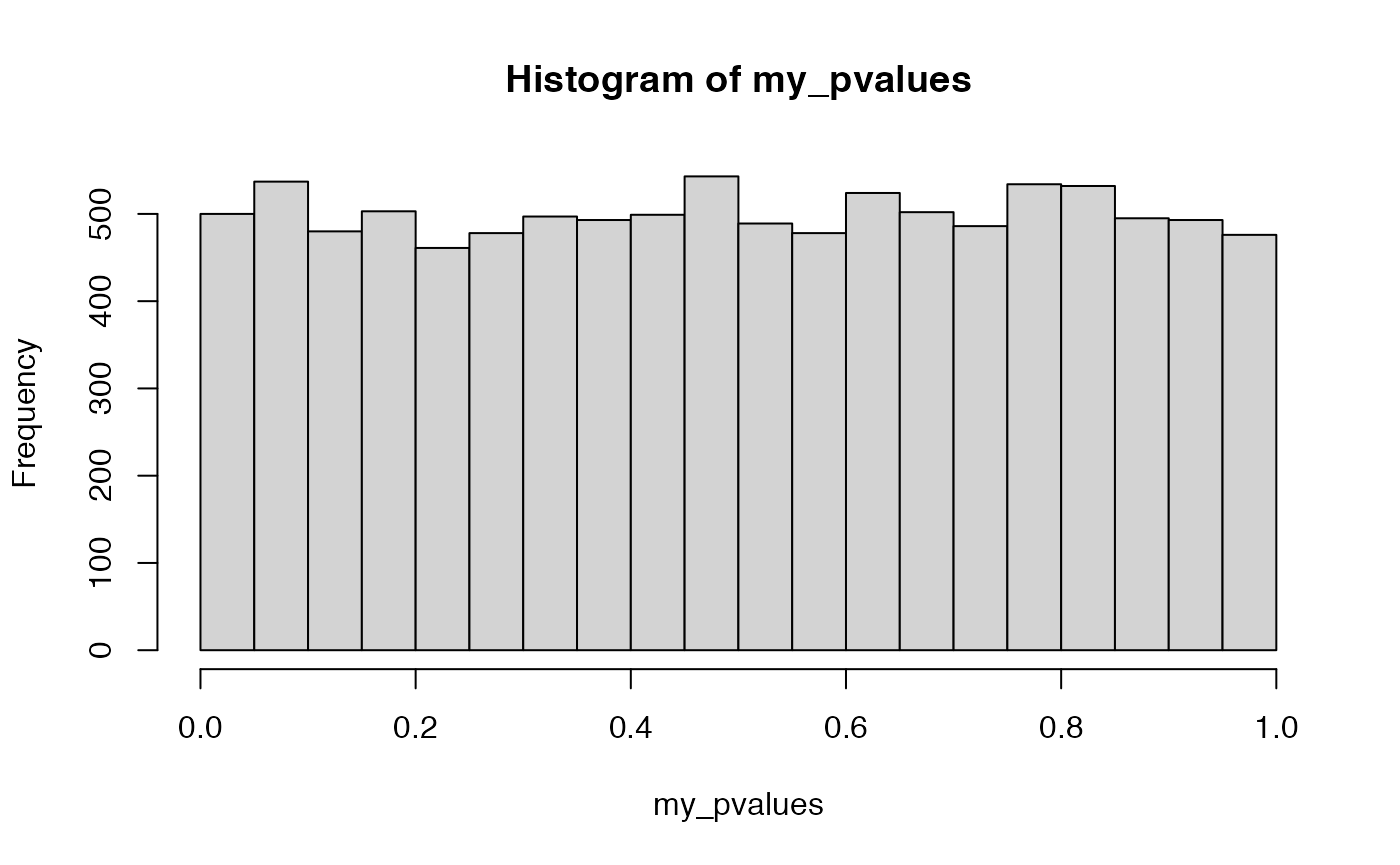
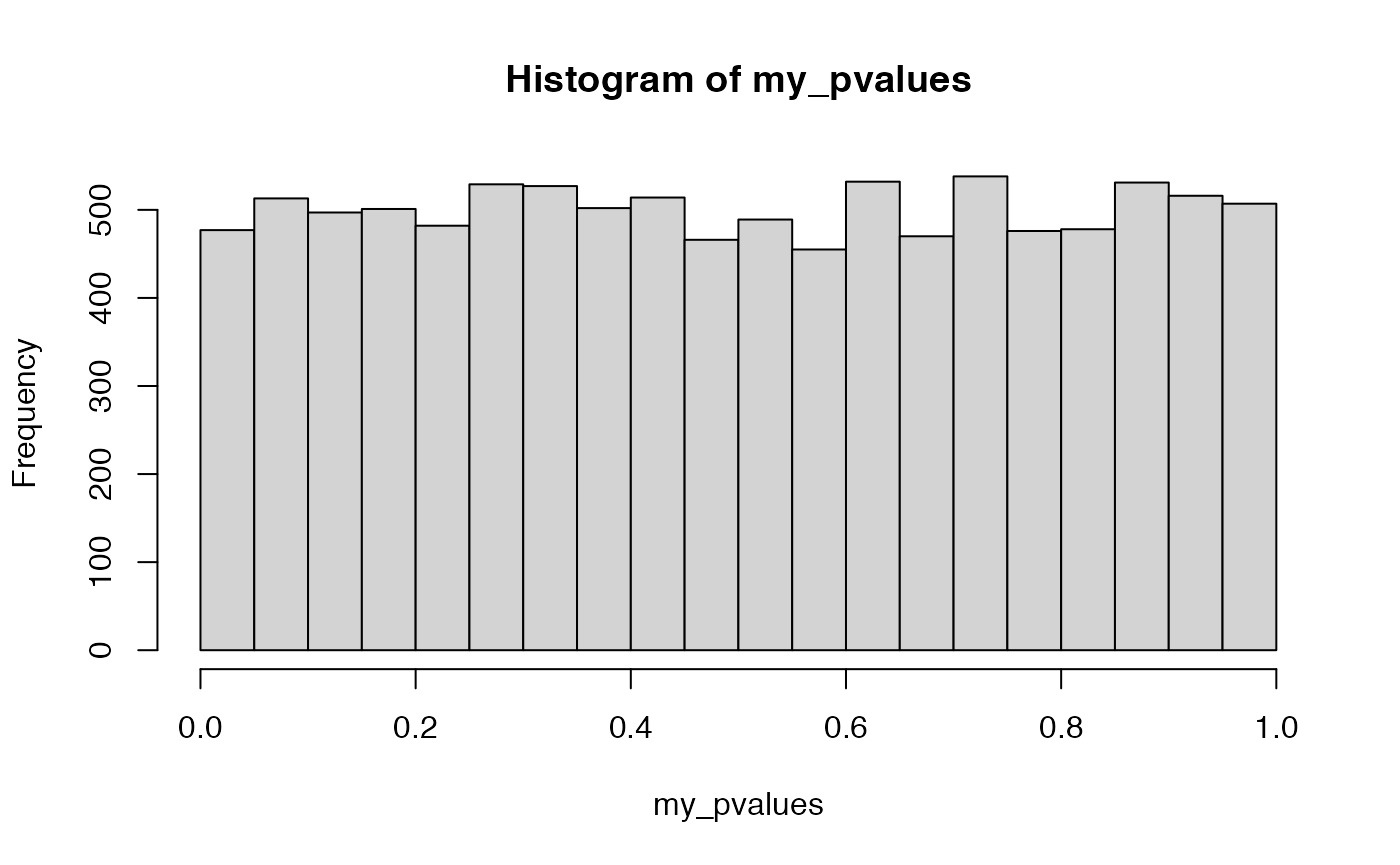
***

diff --git a/docs/articles/Lab6.html b/docs/articles/Lab6.html
@@ -120,24 +120,24 @@
 <p><img src="Lab6_files/figure-html/unnamed-chunk-1-1.png" width="700"></p>
 <div class="sourceCode" id="cb6"><pre class="downlit sourceCode r">
 <code class="sourceCode R"><span class="fu"><a href="https://rdrr.io/r/base/length.html" class="external-link">length</a></span><span class="op">(</span><span class="va">A</span><span class="op">[</span><span class="va">A</span> <span class="op">&gt;</span> <span class="fl">0</span><span class="op">]</span><span class="op">)</span><span class="op">/</span><span class="fl">10000</span></code></pre></div>
-<pre><code><span class="co">## [1] 0.6427</span></code></pre>
+<pre><code><span class="co">## [1] 0.6423</span></code></pre>
 <div class="sourceCode" id="cb8"><pre class="downlit sourceCode r">
 <code class="sourceCode R"><span class="va">B</span> <span class="op">&lt;-</span> <span class="fu"><a href="https://rdrr.io/r/base/lapply.html" class="external-link">replicate</a></span><span class="op">(</span><span class="fl">10000</span>,<span class="fu"><a href="https://rdrr.io/r/base/sum.html" class="external-link">sum</a></span><span class="op">(</span><span class="fu"><a href="https://rdrr.io/r/stats/Binomial.html" class="external-link">rbinom</a></span><span class="op">(</span><span class="fl">50</span>,<span class="fl">1</span>,<span class="fl">.05</span><span class="op">)</span><span class="op">)</span><span class="op">)</span>
 <span class="fu"><a href="https://rdrr.io/r/graphics/hist.html" class="external-link">hist</a></span><span class="op">(</span><span class="va">B</span><span class="op">)</span></code></pre></div>
 <p><img src="Lab6_files/figure-html/unnamed-chunk-1-2.png" width="700"></p>
 <div class="sourceCode" id="cb9"><pre class="downlit sourceCode r">
 <code class="sourceCode R"><span class="fu"><a href="https://rdrr.io/r/base/length.html" class="external-link">length</a></span><span class="op">(</span><span class="va">B</span><span class="op">[</span><span class="va">B</span> <span class="op">&gt;</span> <span class="fl">0</span><span class="op">]</span><span class="op">)</span><span class="op">/</span><span class="fl">10000</span></code></pre></div>
-<pre><code><span class="co">## [1] 0.9255</span></code></pre>
+<pre><code><span class="co">## [1] 0.9198</span></code></pre>
 <div class="sourceCode" id="cb11"><pre class="downlit sourceCode r">
 <code class="sourceCode R"><span class="fl">4</span><span class="op">-</span><span class="fl">3</span></code></pre></div>
 <pre><code><span class="co">## [1] 1</span></code></pre>
 <div class="sourceCode" id="cb13"><pre class="downlit sourceCode r">
 <code class="sourceCode R"><span class="fu"><a href="https://rdrr.io/r/stats/Binomial.html" class="external-link">rbinom</a></span><span class="op">(</span><span class="fl">20</span>,<span class="fl">3</span>,<span class="fl">.05</span><span class="op">)</span></code></pre></div>
-<pre><code><span class="co">##  [1] 0 0 1 0 1 0 0 0 0 0 1 0 0 0 0 0 0 0 0 0</span></code></pre>
+<pre><code><span class="co">##  [1] 0 0 0 0 0 0 0 0 0 1 0 0 0 1 0 0 0 0 0 1</span></code></pre>
 <div class="sourceCode" id="cb15"><pre class="downlit sourceCode r">
 <code class="sourceCode R"><span class="va">D</span> <span class="op">&lt;-</span> <span class="fu"><a href="https://rdrr.io/r/base/lapply.html" class="external-link">replicate</a></span><span class="op">(</span><span class="fl">10000</span>,<span class="fu"><a href="https://rdrr.io/r/base/sum.html" class="external-link">sum</a></span><span class="op">(</span><span class="fu"><a href="https://rdrr.io/r/stats/Binomial.html" class="external-link">rbinom</a></span><span class="op">(</span><span class="fl">20</span>,<span class="fl">3</span>,<span class="fl">.05</span><span class="op">)</span><span class="op">)</span><span class="op">)</span>
 <span class="fu"><a href="https://rdrr.io/r/base/length.html" class="external-link">length</a></span><span class="op">(</span><span class="va">D</span><span class="op">[</span><span class="va">D</span> <span class="op">&gt;</span> <span class="fl">0</span><span class="op">]</span><span class="op">)</span><span class="op">/</span><span class="fl">10000</span></code></pre></div>
-<pre><code><span class="co">## [1] 0.9522</span></code></pre>
+<pre><code><span class="co">## [1] 0.9552</span></code></pre>
 <div class="sourceCode" id="cb17"><pre class="downlit sourceCode r">
 <code class="sourceCode R"><span class="fu"><a href="https://rdrr.io/r/graphics/hist.html" class="external-link">hist</a></span><span class="op">(</span><span class="va">D</span><span class="op">)</span></code></pre></div>
 <p><img src="Lab6_files/figure-html/unnamed-chunk-1-3.png" width="700"></p>
@@ -223,10 +223,10 @@
 <span class="op">}</span>
 
 <span class="fu"><a href="https://rdrr.io/r/base/length.html" class="external-link">length</a></span><span class="op">(</span><span class="va">omnibus_pvalues</span><span class="op">[</span><span class="va">omnibus_pvalues</span> <span class="op">&lt;</span> <span class="fl">.05</span><span class="op">]</span><span class="op">)</span><span class="op">/</span><span class="fl">1000</span></code></pre></div>
-<pre><code><span class="co">## [1] 0.003</span></code></pre>
+<pre><code><span class="co">## [1] 0.004</span></code></pre>
 <div class="sourceCode" id="cb23"><pre class="downlit sourceCode r">
 <code class="sourceCode R"><span class="fu"><a href="https://rdrr.io/r/base/length.html" class="external-link">length</a></span><span class="op">(</span><span class="va">contrast_pvalues</span><span class="op">[</span><span class="va">contrast_pvalues</span> <span class="op">&lt;</span> <span class="fl">.05</span><span class="op">]</span><span class="op">)</span><span class="op">/</span><span class="fl">1000</span></code></pre></div>
-<pre><code><span class="co">## [1] 0.005</span></code></pre>
+<pre><code><span class="co">## [1] 0.006</span></code></pre>
   </main>
 </div>
 

diff --git a/docs/articles/Lab7.html b/docs/articles/Lab7.html
@@ -222,7 +222,7 @@
 <div class="sourceCode" id="cb12"><pre class="downlit sourceCode r">
 <code class="sourceCode R"><span class="va">sims</span> <span class="op">&lt;-</span> <span class="fu"><a href="https://rdrr.io/r/stats/Binomial.html" class="external-link">rbinom</a></span><span class="op">(</span><span class="fl">10000</span>,<span class="fl">7</span>,<span class="fl">.05</span><span class="op">)</span>
 <span class="fu"><a href="https://rdrr.io/r/base/length.html" class="external-link">length</a></span><span class="op">(</span><span class="va">sims</span> <span class="op">[</span><span class="va">sims</span> <span class="op">&gt;</span> <span class="fl">0</span> <span class="op">]</span><span class="op">)</span><span class="op">/</span><span class="fl">10000</span></code></pre></div>
-<pre><code><span class="co">## [1] 0.2968</span></code></pre>
+<pre><code><span class="co">## [1] 0.2989</span></code></pre>
 <div class="sourceCode" id="cb14"><pre class="downlit sourceCode r">
 <code class="sourceCode R"><span class="va">n</span> <span class="op">&lt;-</span> <span class="fl">12</span>
 <span class="va">factorial_data</span> <span class="op">&lt;-</span> <span class="fu"><a href="https://rdrr.io/pkg/tibble/man/tibble.html" class="external-link">tibble</a></span><span class="op">(</span>A <span class="op">=</span> <span class="fu"><a href="https://rdrr.io/r/base/factor.html" class="external-link">factor</a></span><span class="op">(</span><span class="fu"><a href="https://rdrr.io/r/base/rep.html" class="external-link">rep</a></span><span class="op">(</span><span class="fu"><a href="https://rdrr.io/r/base/c.html" class="external-link">c</a></span><span class="op">(</span><span class="st">"L1"</span>,<span class="st">"L2"</span><span class="op">)</span>, each <span class="op">=</span> <span class="va">n</span><span class="op">)</span><span class="op">)</span>,
@@ -231,17 +231,15 @@
                          DV <span class="op">=</span> <span class="fu"><a href="https://rdrr.io/r/stats/Normal.html" class="external-link">rnorm</a></span><span class="op">(</span><span class="va">n</span><span class="op">*</span><span class="fl">2</span>,<span class="fl">0</span>,<span class="fl">1</span><span class="op">)</span><span class="op">)</span>
 
 <span class="fu"><a href="https://rdrr.io/r/base/summary.html" class="external-link">summary</a></span><span class="op">(</span><span class="fu"><a href="https://rdrr.io/r/stats/aov.html" class="external-link">aov</a></span><span class="op">(</span><span class="va">DV</span> <span class="op">~</span> <span class="va">A</span><span class="op">*</span><span class="va">B</span><span class="op">*</span><span class="va">C</span>, data <span class="op">=</span> <span class="va">factorial_data</span><span class="op">)</span><span class="op">)</span></code></pre></div>
-<pre><code><span class="co">##             Df Sum Sq Mean Sq F value Pr(&gt;F)  </span>
-<span class="co">## A            1  0.529  0.5292   0.871 0.3645  </span>
-<span class="co">## B            1  2.383  2.3834   3.924 0.0651 .</span>
-<span class="co">## C            1  0.608  0.6080   1.001 0.3320  </span>
-<span class="co">## A:B          1  0.352  0.3519   0.579 0.4577  </span>
-<span class="co">## A:C          1  0.009  0.0085   0.014 0.9072  </span>
-<span class="co">## B:C          1  0.179  0.1792   0.295 0.5945  </span>
-<span class="co">## A:B:C        1  1.150  1.1502   1.893 0.1878  </span>
-<span class="co">## Residuals   16  9.719  0.6075                 </span>
-<span class="co">## ---</span>
-<span class="co">## Signif. codes:  0 '***' 0.001 '**' 0.01 '*' 0.05 '.' 0.1 ' ' 1</span></code></pre>
+<pre><code><span class="co">##             Df Sum Sq Mean Sq F value Pr(&gt;F)</span>
+<span class="co">## A            1  1.467  1.4669   1.255  0.279</span>
+<span class="co">## B            1  0.472  0.4724   0.404  0.534</span>
+<span class="co">## C            1  2.199  2.1994   1.882  0.189</span>
+<span class="co">## A:B          1  0.789  0.7890   0.675  0.423</span>
+<span class="co">## A:C          1  1.354  1.3543   1.159  0.298</span>
+<span class="co">## B:C          1  0.625  0.6252   0.535  0.475</span>
+<span class="co">## A:B:C        1  0.262  0.2620   0.224  0.642</span>
+<span class="co">## Residuals   16 18.703  1.1689</span></code></pre>
 <div class="sourceCode" id="cb16"><pre class="downlit sourceCode r">
 <code class="sourceCode R"><span class="co"># set up tibble to save simulation values</span>
 <span class="va">save_sim</span> <span class="op">&lt;-</span> <span class="fu"><a href="https://rdrr.io/pkg/tibble/man/tibble.html" class="external-link">tibble</a></span><span class="op">(</span><span class="op">)</span>
@@ -274,7 +272,7 @@
   <span class="fu"><a href="https://rdrr.io/pkg/dplyr/man/count.html" class="external-link">count</a></span><span class="op">(</span><span class="op">)</span>
 
 <span class="fu"><a href="https://rdrr.io/r/base/dim.html" class="external-link">dim</a></span><span class="op">(</span><span class="va">type_I_errors</span><span class="op">)</span><span class="op">[</span><span class="fl">1</span><span class="op">]</span><span class="op">/</span><span class="fl">1000</span></code></pre></div>
-<pre><code><span class="co">## [1] 0.267</span></code></pre>
+<pre><code><span class="co">## [1] 0.274</span></code></pre>
   </main>
 </div>
 
